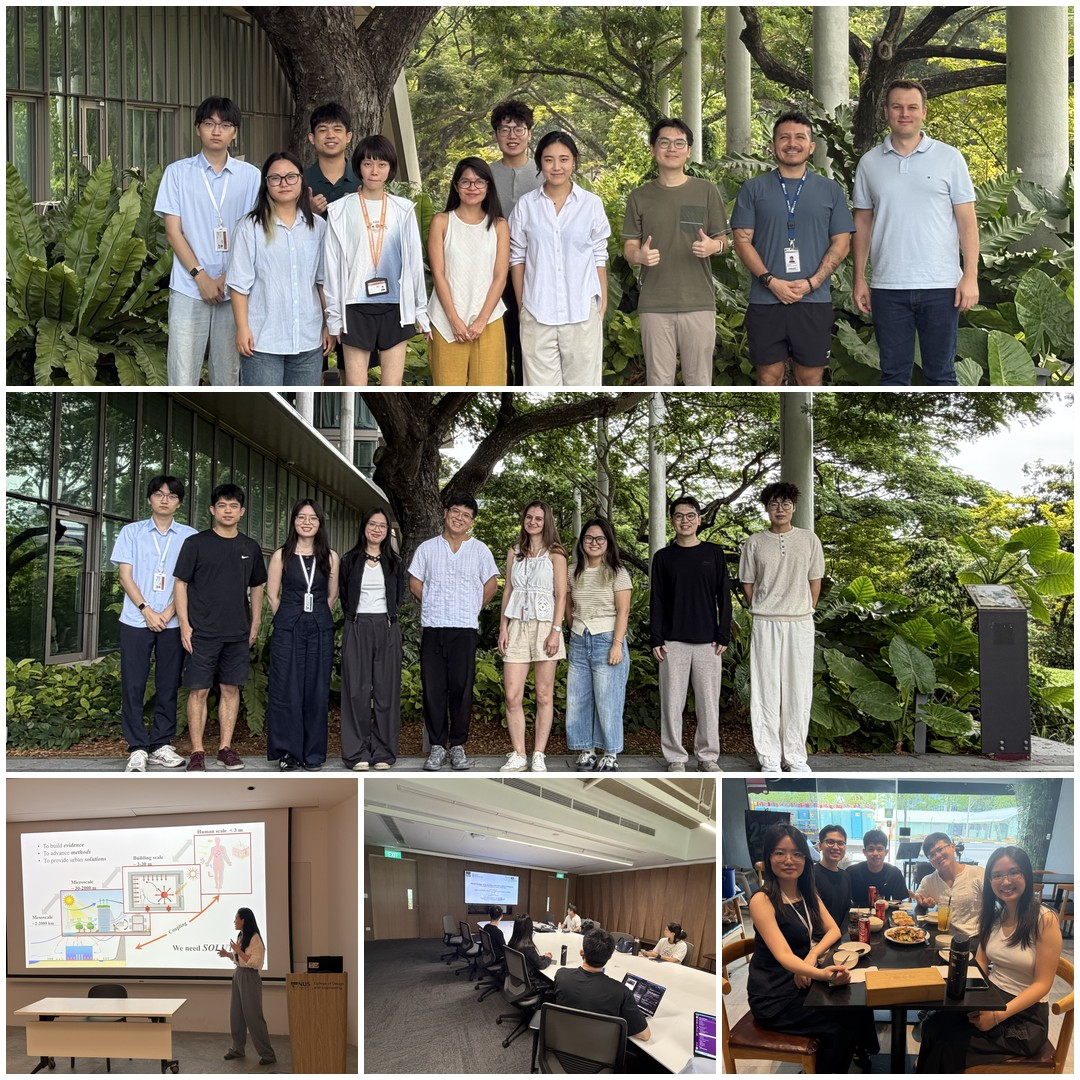
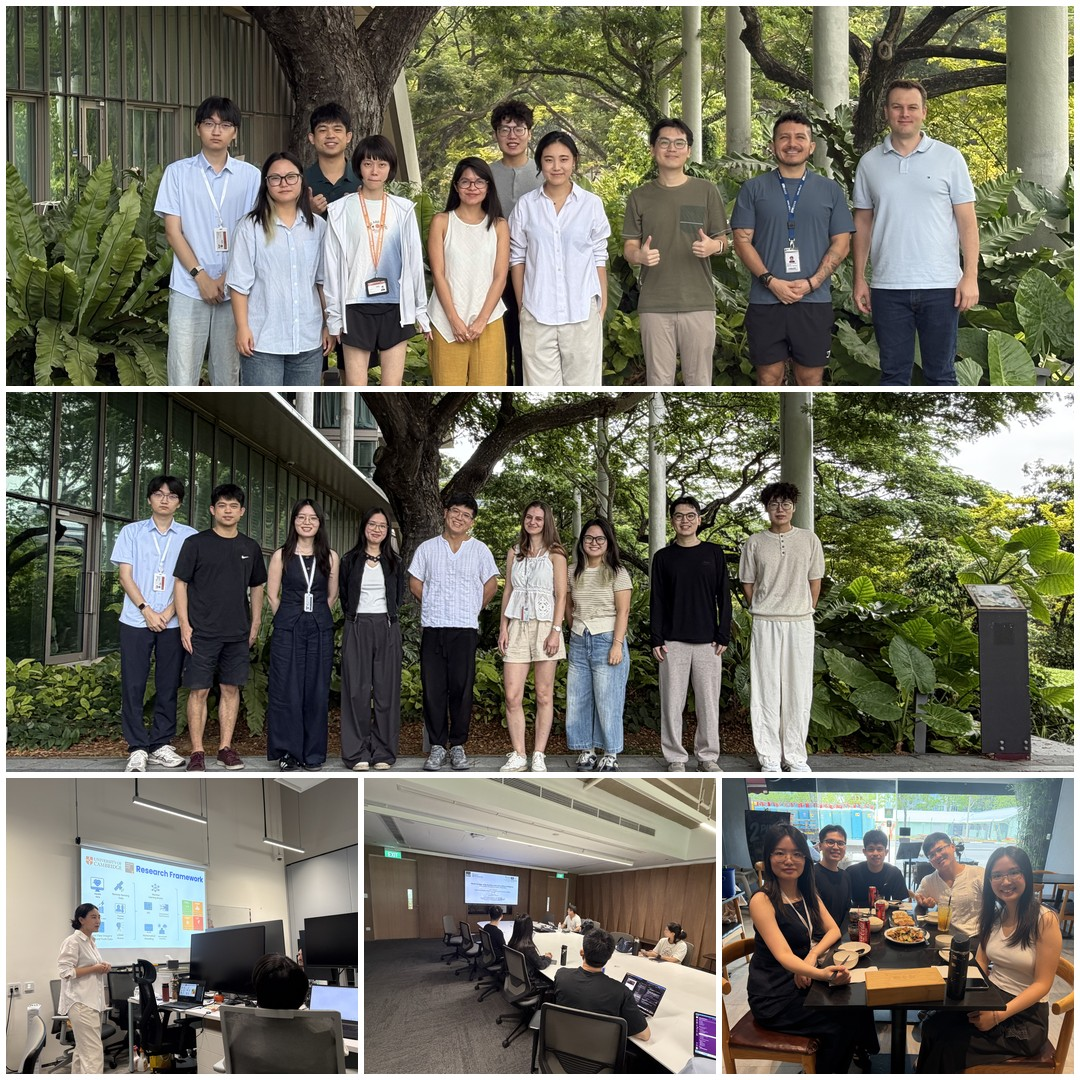
Replace Flora's job-talk photos with lab presentation photos in collage and gallery.
Claude-Session: https://claude.ai/code/session_01CajowZYjDaKCzfStCDgSdJ

Changed region(s): [[0.0, 0.7028, 0.3361, 1.0]]

diff --git a/assets/img/linkedin/2026-10-lab-visits/POST_DRAFT.md b/assets/img/linkedin/2026-10-lab-visits/POST_DRAFT.md
@@ -5,7 +5,7 @@ Use **one** collage:
 - `linkedin-collage-2026-10-lab-visits.jpg` (1920×1080, recommended)
 - `linkedin-collage-2026-10-lab-visits-square.jpg` (1080×1080, optional)
 
-Layout: two group photos as heroes (Flora · Nan) · Flora's talk + poster discussion · Nan's talk + meal with lab members.
+Layout: two group photos as heroes (Flora · Nan) · Flora presenting in the lab + poster discussion · Nan's talk + meal with lab members. (No photos from Flora's departmental job talk.)
 
 ## Post (English)
 
@@ -13,10 +13,10 @@ Two inspiring visits to the NUS Urban Analytics Lab this October 🍂
 
 Hosted by Prof. Filip Biljecki, we were glad to welcome two scholars looking at cities from very different angles, from urban climate to cultural heritage:
 
-• Dr Flora Haiwei Li (University of Cambridge) — Cooler, Healthier Cities: Urban Physics for Multi-Scale Climate Solutions
+• Dr Flora Haiwei Li (University of Cambridge) — lab visit and discussion with our group on urban climate and cooler, healthier cities
 • Dr Nan Bai (TU Delft) — World Heritage Understanding aided with Artificial Intelligence: From Public Discourse to Policy Documents
 
-Beyond the talks, the conversations continued in front of our research posters and over a shared meal with the lab.
+Beyond the presentations, the conversations continued in front of our research posters and over a shared meal with the lab.
 
 Grateful to both visitors for their time and ideas, and to everyone who joined. 🙏
 
